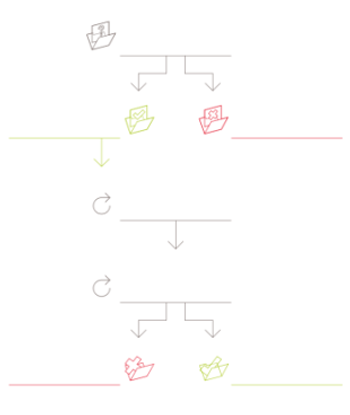
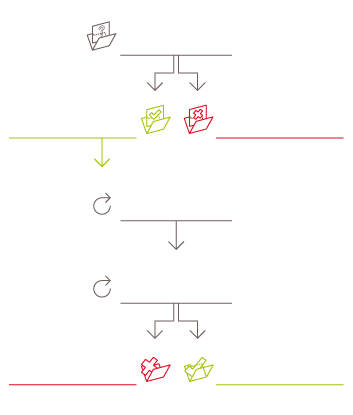
hopefully new 1.0.2 version

diff --git a/app/css/main.css b/app/css/main.css
@@ -555,7 +555,7 @@ span.ocaxButtonCount {
 
 /* intro page */
 .introPageBlock {
-	font-size:1.2em;
+	/*font-size:1.1em;*/
 	padding:10px;
 	position:absolute;
 }
@@ -571,6 +571,8 @@ span.ocaxButtonCount {
 .nextIntroPage {
 	width:100%;
 	text-align:right;
+}
+.nextIntroPage p {
 	margin-bottom:-10px;
 }
 

diff --git a/protected/views/email/create.php b/protected/views/email/create.php
@@ -32,12 +32,8 @@ if($returnURL == 'enquiry/teamView'){
 }
 if($returnURL == 'enquiry/adminView'){
 	$this->menu=array(
-		//array('label'=>'View Enquiry', 'url'=>array('/enquiry/adminView', 'id'=>$enquiry->id)),
-		//array('label'=>'Actualizar estat', 'url'=>array('/enquiry/update', 'id'=>$enquiry->id)),
-		//array('label'=>'Editar Enquiry', 'url'=>array('/enquiry/edit', 'id'=>$enquiry->id)),
 		array('label'=>'Emails sent', 'url'=>array('/email/index/', 'id'=>$enquiry->id, 'menu'=>'manager')),
 		array('label'=>'List enquirys', 'url'=>array('/enquiry/admin')),
-		//array('label'=>'email ciudadano', 'url'=>'#', 'linkOptions'=>array('onclick'=>'getEmailForm('.$model->user0->id.')')),
 );
 }
 ?>
@@ -56,6 +52,11 @@ function toggleRecipients(){
 	else
 		$('#recipients_link').html('Hide');
 	$('#recipients').toggle();
+}
+function submitForm(){
+	$('.loading_gif').show();
+	$('input[type=button]').prop("disabled",true);
+	document.forms['email-form'].submit();
 }
 </script>
 
@@ -133,9 +134,9 @@ function toggleRecipients(){
 	</div>
 
 	<div class="row buttons">
-		<?php echo CHtml::submitButton($model->isNewRecord ? 'Enviar' : 'Save'); ?>
+		<input type="button" onclick="submitForm()" value="<?php echo $model->isNewRecord ? __('Send') : __('Save'); ?>">
 		<input type="button" value="Cancel" onclick='js:window.location="<?php echo Yii::app()->baseUrl.'/'.$returnURL.'/'.$enquiry->id;?>";' />
-
+		<img style="vertical-align:middle;display:none" class="loading_gif" src="<?php echo Yii::app()->request->baseUrl;?>/images/loading.gif" />
 	</div>
 
 <?php $this->endWidget(); ?>

diff --git a/protected/views/enquiry/workflow.php b/protected/views/enquiry/workflow.php
@@ -24,14 +24,14 @@
 ?>
 
 <style>
-.workflowText { position:absolute; font-size:0.95em; line-height:95%; width:150px; }
+.workflowText { position:absolute; font-size:0.95em; line-height:95%; width:150px;}
 </style>
 <div style="background-image: url('<?php echo Yii::app()->request->baseUrl; ?>/images/workflow.png'); height:415px; position:relative;">
 <div class="workflowText" style="top:25px;left:120px;"><?php echo $model->getHumanStates(1);?></div>
-<div class="workflowText" style="top:105px;left:0px;width:125px;"><?php echo $model->getHumanStates(4);?></div>
-<div class="workflowText" style="top:105px;left:235px;width:125px;"><?php echo $model->getHumanStates(3);?></div>
+<div class="workflowText" style="top:107px;left:0px;width:140px;"><?php echo $model->getHumanStates(4);?></div>
+<div class="workflowText" style="top:107px;left:218px;width:145px;"><?php echo $model->getHumanStates(3);?></div>
 <div class="workflowText" style="top:190px;left:120px;"><?php echo $model->getHumanStates(5);?></div>
 <div class="workflowText" style="top:275px;left:120px;"><?php echo $model->getHumanStates(6);?></div>
-<div class="workflowText" style="top:355px;left:0px;width:125px;"><?php echo $model->getHumanStates(8);?></div>
-<div class="workflowText" style="top:355px;left:235px;width:125px;"><?php echo $model->getHumanStates(7);?></div>
+<div class="workflowText" style="top:355px;left:0px;width:140px;"><?php echo $model->getHumanStates(8);?></div>
+<div class="workflowText" style="top:355px;left:218px;width:145px;"><?php echo $model->getHumanStates(7);?></div>
 </div>

diff --git a/protected/controllers/EnquiryController.php b/protected/controllers/EnquiryController.php
@@ -169,6 +169,7 @@ class EnquiryController extends Controller
 			$model->attributes=$_POST['Enquiry'];
 			$model->user = Yii::app()->user->getUserID();
 			$model->created = date('Y-m-d');
+			$model->modified = date('c');
 			$model->state = ENQUIRY_PENDING_VALIDATION;
 			$model->title = htmLawed::hl($model->title, array('elements'=>'-*', 'keep_bad'=>0));
 			$model->body = htmLawed::hl($model->body, array('safe'=>1, 'deny_attribute'=>'script, class, id'));
@@ -315,8 +316,8 @@ class EnquiryController extends Controller
 			Yii::app()->end();
 		}		
 		
-		if($model->state >= ENQUIRY_ACCEPTED && $userid != $model->team_member){
-			$this->redirect(array('/site/index'));
+		if($model->state > ENQUIRY_PENDING_VALIDATION && $userid != $model->team_member){
+			$this->redirect(array('/user/panel'));
 			Yii::app()->end();
 		}
 		
@@ -628,7 +629,7 @@ class EnquiryController extends Controller
 	{
 		$model = $this->loadModel($id);
 		$user=Yii::app()->user->getUserID();
-		if($model->state==1 && ($model->user == $user || Yii::app()->user->isManager()) ){
+		if($model->state==ENQUIRY_PENDING_VALIDATION && ($model->user == $user || Yii::app()->user->isManager()) ){
 			$model->delete();
 
 			// if AJAX request (triggered by deletion via admin grid view), we should not redirect the browser

diff --git a/protected/views/introPage/show.php b/protected/views/introPage/show.php
@@ -39,11 +39,11 @@ $nextPage=$model->getNextPage();
 <div class="introPageBlock">
 	<div class="introTitle"><?php echo $content->title; ?></div>
 	<div class="sub_title"><?php echo $content->subtitle ?></div>
-	<p class="text"><?php echo $content->body; ?></p>
+	<p><?php echo $content->body; ?></p>
 	<?php
 	if($nextPage){
 		echo '<div class="nextIntroPage" onClick="js:nextPage('.$nextPage->id.')">';
-		echo '<span style="cursor:pointer;text-decoration:underline">'.$model->getTitleForModel($nextPage->id,$content->language).'</span>';
+		echo '<p style="cursor:pointer;text-decoration:underline">'.$model->getTitleForModel($nextPage->id,$content->language).'</p>';
 		echo '</div>';
 	}
 	?>

diff --git a/protected/controllers/UserController.php b/protected/controllers/UserController.php
@@ -77,7 +77,7 @@ class UserController extends Controller
 			'criteria'=>array(
 				'condition'=>"user=$id",
 			),
-			'sort'=>array('defaultOrder'=>'modified ASC'),
+			'sort'=>array('defaultOrder'=>'modified DESC'),
 		));
 
 		$userid=Yii::app()->user->getUserID();
@@ -89,8 +89,9 @@ class UserController extends Controller
 								t.user != '.$userid.' AND
 								( t.team_member != '.$userid.' || t.team_member IS NULL )',
 				'together'=>true,
+				//'order'=>'t.id DESC',
 			),
-			'sort'=>array('defaultOrder'=>'modified ASC'),
+			'sort'=>array('defaultOrder'=>'t.modified DESC'),
 		));
 
 		// check for OCAx updates once a week

diff --git a/protected/views/enquiry/view.php b/protected/views/enquiry/view.php
@@ -296,7 +296,7 @@ if($model->budget)
 <!-- social options stop -->
 
 <?php
-if($model->state < ENQUIRY_ACCEPTED && $model->user == Yii::app()->user->getUserID()){
+if($model->state == ENQUIRY_PENDING_VALIDATION && $model->user == Yii::app()->user->getUserID()){
 	echo '<div style="font-style:italic;margin-top:-30px;margin-bottom:10px;">'.__('You can').' '.
 		 CHtml::link(__('edit the enquiry'),array('enquiry/edit','id'=>$model->id)).' '.__('and even').' '.
 		 CHtml::link(__('delete it'),"#",
